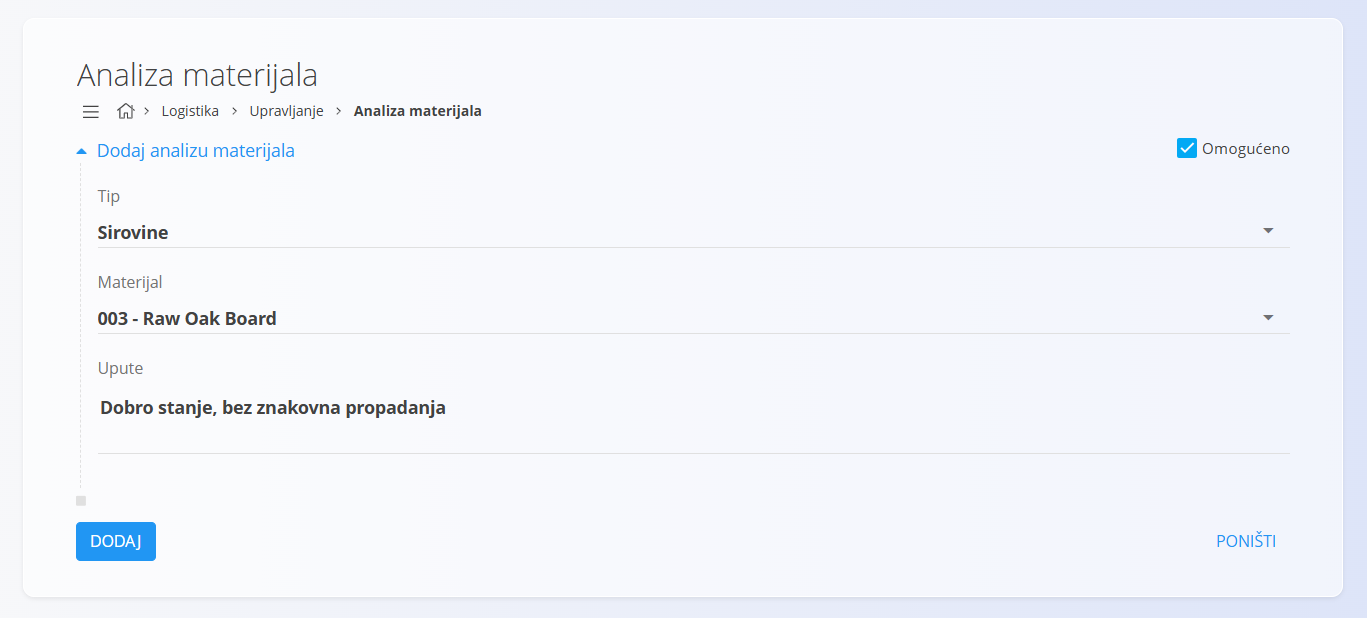
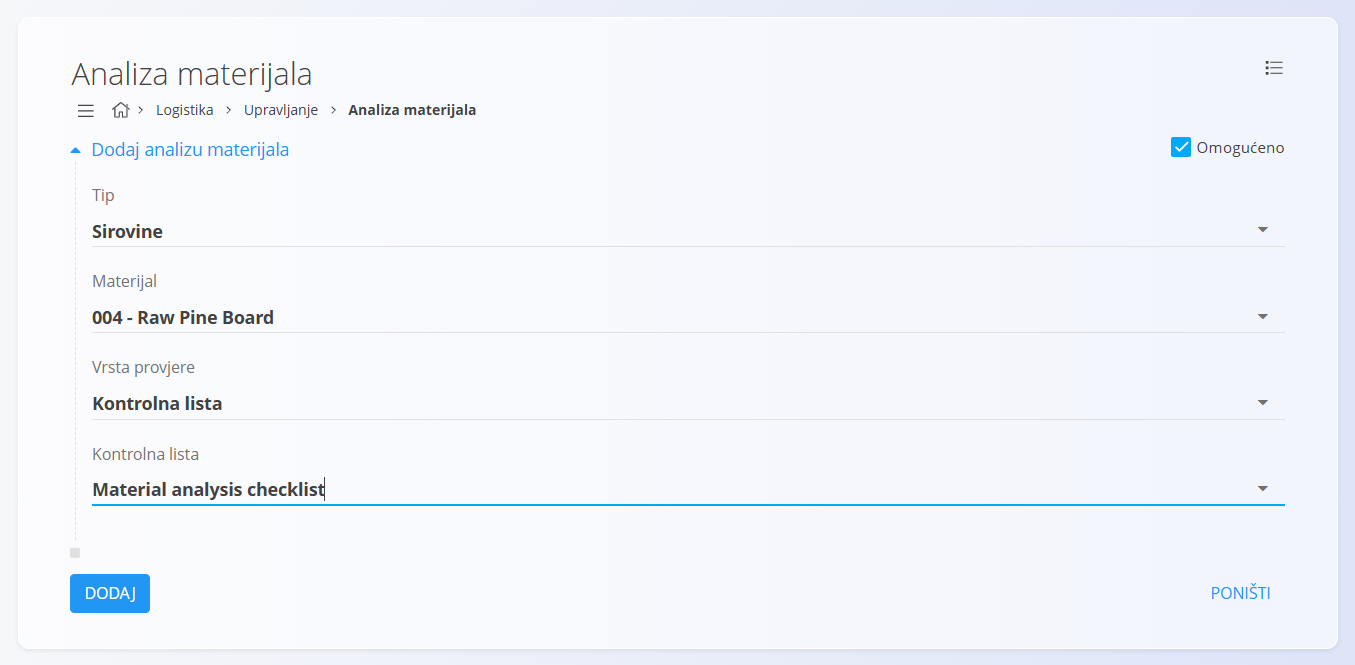
docs(en,sl,hr): document check type and checklist for material analysis

diff --git a/sl/Domene/Logistika/Upravljanje/AnalizaMaterialov.md b/sl/Domene/Logistika/Upravljanje/AnalizaMaterialov.md
@@ -22,12 +22,14 @@ Za dostop do **Analize materialov** pojdite na **Logistika / Upravljanje / Anali
 |-------|------|
 | **Tip** | Tip materiala (izdelek, polizdelek, surovina ali repro material) (obvezno). |
 | **[Material](../../Sredstva/Materiali/README.md)** | Konkreten material, za katerega velja analiza (obvezno). |
-| **Navodila** | Postopek in kriteriji sprejemljivosti za izvedbo analize (obvezno). |
+| **Tip preverjanja** | Način izvedbe analize: **Privzeto preverjanje** ali **Kontrolna lista** (obvezno). |
+| **Navodila** | Postopek in kriteriji sprejemljivosti za izvedbo analize. Prikažejo se, ko je tip preverjanja **Privzeto preverjanje** (obvezno za ta tip). |
+| **Kontrolna lista** | Kontrolna lista, ki se uporabi za izvedbo analize. Prikaže se namesto polja **Navodila**, ko je tip preverjanja **Kontrolna lista** (obvezno za ta tip). |
 | **Omogočeno** | Določa, ali je analiza na voljo za izbor. Privzeto označeno. |
 
 ## Seznamski pogled
 
-Seznam prikazuje vse definirane analize skupaj z njihovim **Tipom**, **Materialom** in stanjem **Omogočeno**.  
+Seznam prikazuje vse definirane analize skupaj z njihovim **Tipom**, **Materialom** in stanjem **Omogočeno**. Pri analizah s tipom preverjanja **Kontrolna lista** seznam prikaže tudi uporabljeno kontrolno listo.  
 Za filtriranje po tipu ali materialu uporabite iskalno polje.
 
 ![Seznam analiz materialov](../Images/MaterialAnalysisManagementListSL.png "Seznam analiz materialov")
@@ -45,7 +47,9 @@ Vsak zapis vsebuje indikator stanja na levi strani imena:
 2. Izpolnite obrazec:
    - **Tip** – izberite kategorijo analize.
    - **Material** – izberite ciljni material.
-   - **Navodila** – opišite, kako se analiza izvede in ovrednoti.
+   - **Tip preverjanja** – izberite **Privzeto preverjanje** ali **Kontrolna lista**.
+   - **Navodila** – za **Privzeto preverjanje** opišite, kako se analiza izvede in ovrednoti.
+   - **Kontrolna lista** – za **Kontrolna lista** izberite kontrolno listo. Polje zamenja **Navodila**.
    - **Omogočeno** – pustite označeno, da bo analiza takoj na voljo.
 
 3. Kliknite **Dodaj** za shranjevanje ali **Prekliči** za vrnitev na seznam.

diff --git a/en/Domains/Logistics/Management/MaterialAnalysisManagement.md b/en/Domains/Logistics/Management/MaterialAnalysisManagement.md
@@ -21,12 +21,14 @@ To access **Material analysis management**, go to **Logistics / Management / Mat
 |-------|-------------|
 | **Type** | Type of material (product, semi product, raw or repro material) (mandatory). |
 | **[Materials](../../Assets/Materials/README.md)** | The specific material that the analysis applies to (mandatory). |
-| **Instructions** | Procedure and acceptance criteria for performing the analysis (mandatory). |
+| **Check type** | How the analysis is performed: **Default check** or **Checklist** (mandatory). |
+| **Instructions** | Procedure and acceptance criteria for performing the analysis. Shown when the check type is **Default check** (mandatory for that check type). |
+| **Checklist** | The checklist used to perform the analysis. Shown instead of **Instructions** when the check type is **Checklist** (mandatory for that check type). |
 | **Enabled** | Whether the analysis is available for selection. Checked by default. |
 
 ## List view
 
-The list shows all defined analyses with their Type, Material, and Enabled status. Use the search to filter by type or material.
+The list shows all defined analyses with their Type, Material, and Enabled status. For analyses with the **Checklist** check type, the list also shows the checklist that is used. Use the search to filter by type or material.
 
 ![Material Analysis Management List](../Images/MaterialAnalysisManagementList.png "Material Analysis Management List")
 
@@ -43,7 +45,9 @@ Each record includes a status indicator to the left of its name:
 2. Fill in the form:
    - **Type** – choose the analysis category.
    - **Material** – select the target material.
-   - **Instructions** – describe how to execute and evaluate the analysis.
+   - **Check type** – select **Default check** or **Checklist**.
+   - **Instructions** – for **Default check**, describe how to execute and evaluate the analysis.
+   - **Checklist** – for **Checklist**, select the checklist to use. This field replaces **Instructions**.
    - **Enabled** – leave checked to make it available immediately.
 
 3. Click **Add** to save or **Cancel** to return to the list.

diff --git a/hr/Domene/Logistika/Upravljanje/UpravljanjeAnalizamaMaterijala.md b/hr/Domene/Logistika/Upravljanje/UpravljanjeAnalizamaMaterijala.md
@@ -21,12 +21,14 @@ Za pristup ovom dokumentu idite na **Logistika / Upravljanje / Analiza materijal
 |-------|------|
 | **Tip** | Vrsta materijala na koju se analiza odnosi (proizvod, poluproizvod, sirovina ili repro materijal) (obavezno). |
 | **[Materijali](../../RobaIUsluge/Materijali/README.md)** | Materijal za koji se definira analiza (obavezno). |
-| **Upute** | Opis postupka izvođenja analize i kriterija prihvatljivosti (obavezno). |
+| **Vrsta provjere** | Način provođenja analize: **Zadana provjera** ili **Kontrolna lista** (obavezno). |
+| **Upute** | Opis postupka izvođenja analize i kriterija prihvatljivosti. Prikazuje se kada je vrsta provjere **Zadana provjera** (obavezno za tu vrstu). |
+| **Kontrolna lista** | Kontrolna lista koja se koristi za provođenje analize. Prikazuje se umjesto polja **Upute** kada je vrsta provjere **Kontrolna lista** (obavezno za tu vrstu). |
 | **Omogućeno** | Određuje je li analiza dostupna za odabir. Prema zadanim postavkama je uključeno. |
 
 ## Popis analiza
 
-Popis prikazuje sve definirane analize s pripadajućim tipom materijala.
+Popis prikazuje sve definirane analize s pripadajućim tipom materijala. Za analize s vrstom provjere **Kontrolna lista** popis prikazuje i kontrolnu listu koja se koristi.
 
 ![Upravljanje analizama materijala](../Images/MaterialAnalysisManagementListHR.png)
 
@@ -50,7 +52,9 @@ Status zapisa prikazan je bojom s lijeve strane:
 2. Ispunite podatke:
     - Odaberite **Tip** materijala.
     - Odaberite **Materijal**.
-    - Unesite **Upute** za izvođenje analize.
+    - Odaberite **Vrsta provjere**: **Zadana provjera** ili **Kontrolna lista**.
+    - Za **Zadanu provjeru** unesite **Upute** za izvođenje analize.
+    - Za **Kontrolnu listu** odaberite kontrolnu listu. Ovo polje zamjenjuje **Upute**.
     - Po potrebi uključite ili isključite opciju **Omogućeno**.
 
 3. Kliknite **Dodaj**.
